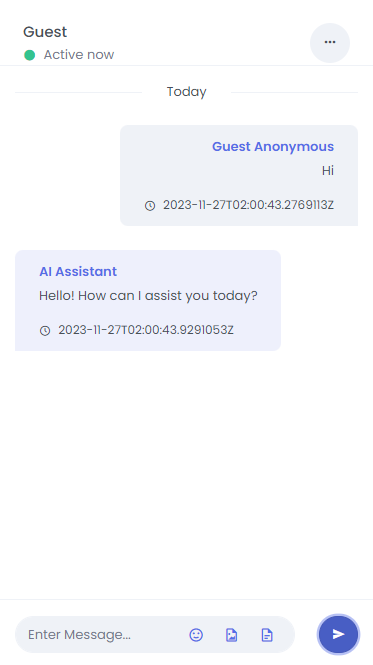
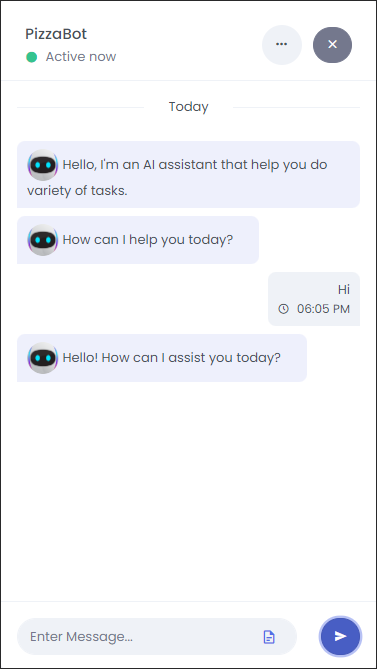
Fixed bug when agent is null.

diff --git a/src/web-live-chat/src/routes/chat/[agentId]/[conversationId]/chat-box.svelte b/src/web-live-chat/src/routes/chat/[agentId]/[conversationId]/chat-box.svelte
@@ -104,7 +104,7 @@
 			<div class="p-4 border-bottom" style="height: 12vh">
 				<div class="row">
 					<div class="col-md-4 col-7">
-						<h5 class="font-size-15 mb-1">{agent.name}</h5>
+						<h5 class="font-size-15 mb-1">{agent?.name}</h5>
 						<p class="text-muted mb-0">
 							<i class="mdi mdi-circle text-success align-middle me-1" /> Active now
 						</p>
